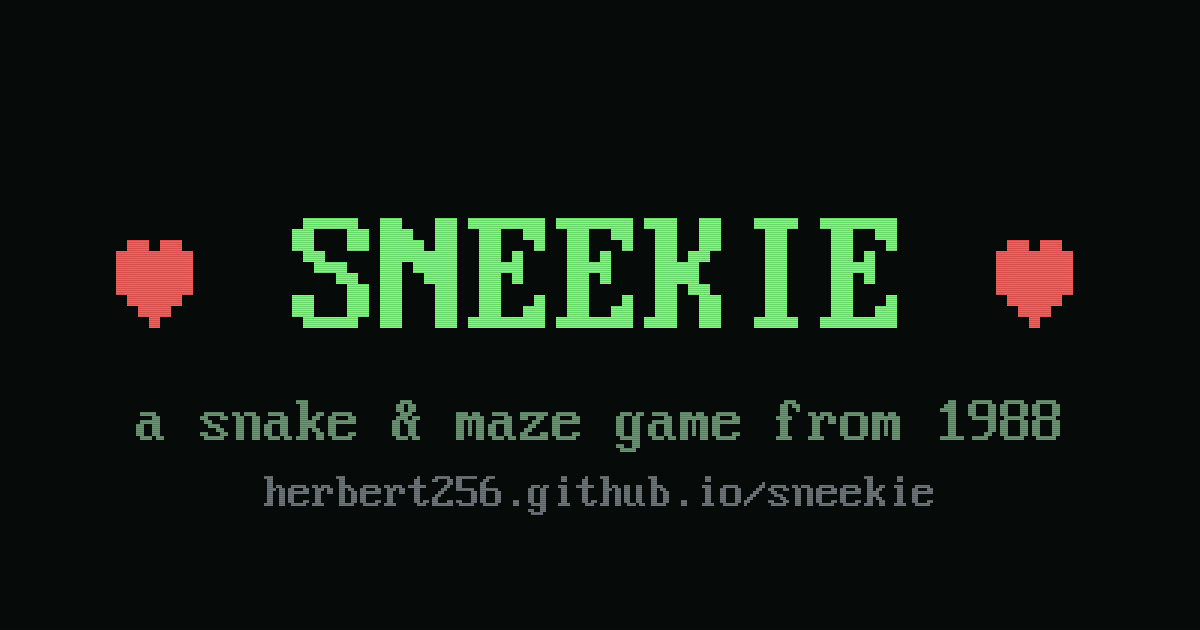
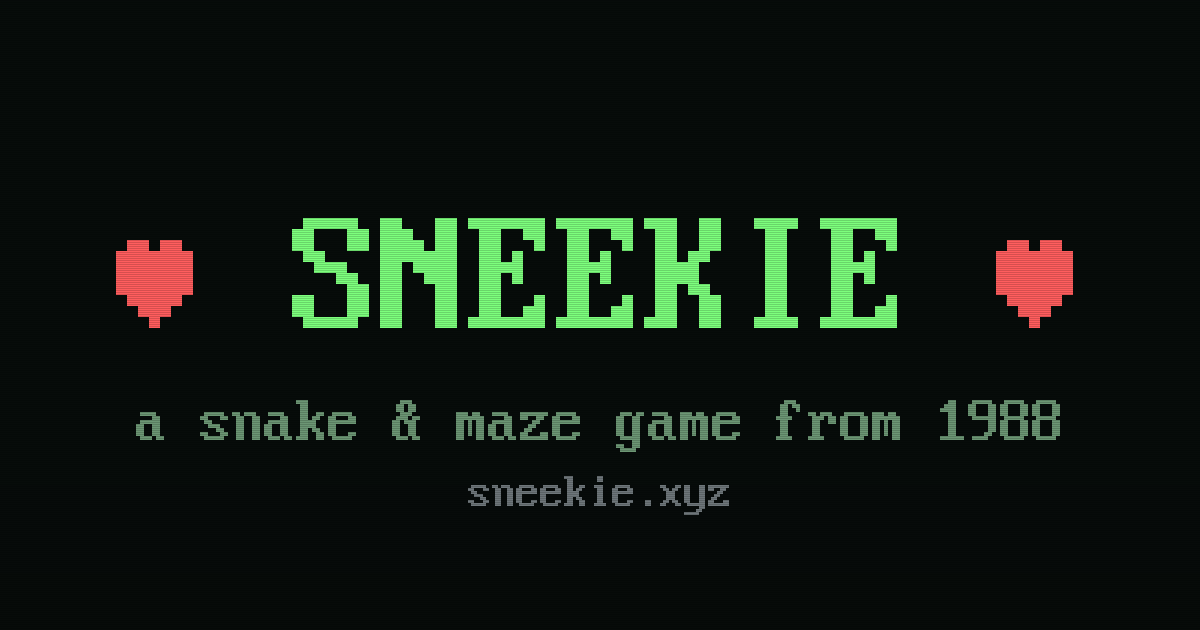
og.png: show sneekie.xyz instead of herbert256.github.io/sneekie
Updated the URL text rendered into the social card (tools/make-icons.py)
and regenerated og.png. HTML og:url/og:image meta unchanged.

Changed region(s): [[0.2158, 0.754, 0.7708, 0.8143]]

diff --git a/tools/make-icons.py b/tools/make-icons.py
@@ -113,7 +113,7 @@ og.text((og.w - og.text_w(title, ts)) // 2, 196, title, ts, GREEN, hearts=RED)
 sub = "a snake & maze game from 1988"
 ss = 4
 og.text((og.w - og.text_w(sub, ss)) // 2, 392, sub, ss, DIMG)
-url = "herbert256.github.io/sneekie"
+url = "sneekie.xyz"
 us = 3
 og.text((og.w - og.text_w(url, us)) // 2, 470, url, us, GREY)
 og.scanlines()